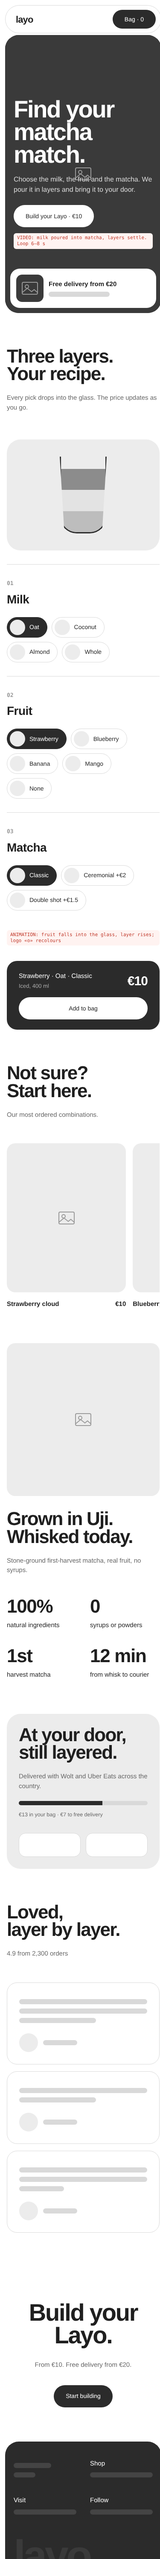
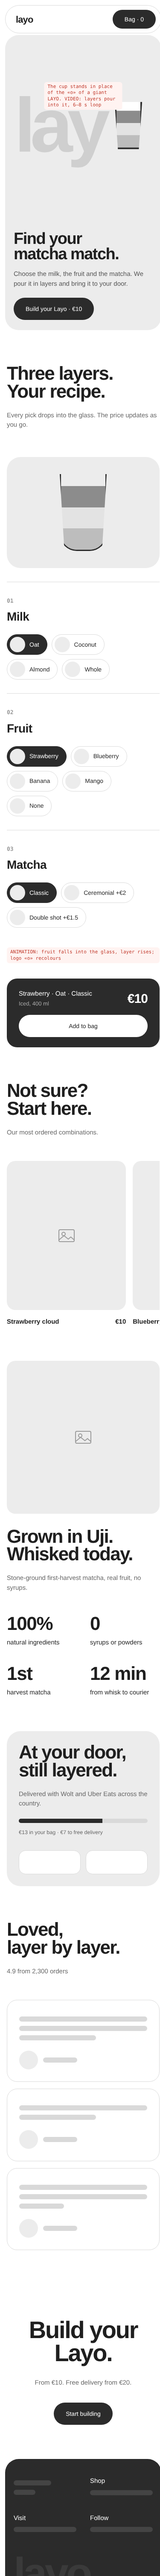
Layo wireframe: poster hero (cup as the o of giant LAYO); hero rule
Claude-Session: https://claude.ai/code/session_01UTJuAjWUwzzxbHTx65gk4g

diff --git a/projects/matcha/wireframe/index.html b/projects/matcha/wireframe/index.html
@@ -19,6 +19,14 @@ nav .lg{font-weight:800;font-size:22px;letter-spacing:-.04em}nav .mid{display:fl
 .hero .txt .h{font-size:clamp(56px,7.4vw,120px)}.hero .txt p{margin:28px 0 32px;max-width:40ch;color:#ddd;font-size:18px}
 .notch{position:absolute;right:0;bottom:0;background:var(--w);border-radius:28px 0 0 0;padding:22px 26px;width:360px}
 .notch .row{display:flex;gap:12px;align-items:center}.notch .row .img{width:64px;height:64px;border-radius:14px;position:static}
+.poster{position:relative;margin:16px 32px 0;height:calc(100vh - 100px);min-height:680px;border-radius:32px;background:var(--p);overflow:hidden}
+.giant{position:absolute;left:0;right:0;top:50%;translate:0 -66%;display:flex;justify-content:center;align-items:center;font-weight:800;letter-spacing:-.07em;font-size:31vw;line-height:.8;color:#cfcfcf}
+.slot{display:inline-grid;place-items:center;width:.62em;height:.8em;position:relative}
+.glass2{width:.36em;height:.62em;border:4px solid var(--d);border-top:0;display:flex;flex-direction:column-reverse;overflow:hidden;clip-path:polygon(0 0,100% 0,88% 100%,12% 100%);background:#fff}
+.glass2 i{height:27%}.glass2 i:nth-child(1){background:#bdbdbd}.glass2 i:nth-child(2){background:#e3e3e3}.glass2 i:nth-child(3){background:#8c8c8c}
+.pl{position:absolute;left:48px;bottom:44px;max-width:420px}.pl .h{font-size:44px}.pl p{margin:24px 0 28px;color:#555}
+.pr{position:absolute;right:48px;bottom:44px;display:grid;gap:14px;justify-items:end}.chips{display:flex;gap:8px}.chips .opt{background:#fff}
+@media (max-width:820px){.poster{margin:8px 12px 0;height:auto;min-height:0;aspect-ratio:9/17}.giant{font-size:46vw;top:34%}.pl{left:20px;right:20px;bottom:24px}.pl .h{font-size:38px}.pl p{margin:18px 0 22px}.pr{display:none}}
 /* builder */
 .build{display:grid;grid-template-columns:5fr 7fr;gap:64px;align-items:start}
 .cup{position:sticky;top:110px;height:560px;border-radius:32px;background:var(--p);display:grid;place-items:center}
@@ -51,10 +59,11 @@ section{padding:80px 0}.build,.q,.del{grid-template-columns:1fr;gap:32px}.cup{po
 </style></head><body>
 <nav><span class="lg">layo</span><span class="mid"><span>Build</span><span>Favourites</span><span>Delivery</span><span>Visit us</span></span><span class="btn" style="height:44px">Bag · 0</span></nav>
 
-<header class="hero"><div class="img"></div>
-  <div class="txt"><h1 class="h">Find your<br>matcha match.</h1><p>Choose the milk, the fruit and the matcha. We pour it in layers and bring it to your door.</p><span class="btn" style="background:#fff;color:#1f1f1f">Build your Layo · €10</span>
-  <div class="note">VIDEO: milk poured into matcha, layers settle. Loop 6–8 s</div></div>
-  <div class="notch"><div class="row"><div class="img"></div><div style="flex:1"><b>Free delivery from €20</b><div class="ln s" style="margin:6px 0 0"></div></div></div></div>
+<header class="poster">
+  <div class="giant"><span>lay</span><span class="slot"><span class="glass2"><i></i><i></i><i></i></span></span></div>
+  <div class="note" style="position:absolute;top:96px;left:50%;translate:-50% 0">The cup stands in place of the «o» of a giant LAYO. VIDEO: layers pour into it, 6–8 s loop</div>
+  <div class="pl"><h1 class="h">Find your<br>matcha match.</h1><p>Choose the milk, the fruit and the matcha. We pour it in layers and bring it to your door.</p><span class="btn">Build your Layo · €10</span></div>
+  <div class="pr"><small style="color:#888">Today’s most built</small><div class="chips"><span class="opt"><i></i>Strawberry</span><span class="opt"><i></i>Oat</span><span class="opt"><i></i>Classic</span></div><b>€10 · free delivery from €20</b></div>
 </header>
 
 <section id="build"><div class="wrap">

diff --git a/skills/premium-wow-design/references/taste.md b/skills/premium-wow-design/references/taste.md
@@ -153,3 +153,6 @@
 
 ## Названия брендов (урок Mido)
 - Прежде чем предлагать название клиенту: поиск бренда, проверка известных марок в любых категориях (Mido = часы Swatch), домены (RDAP), соцсети. Показывать только прошедшие проверку, с таблицей рисков. Товарные знаки — рекомендовать проверку юристом.
+
+## Первый экран (урок Layo)
+- Первый экран — главный носитель уникальности. Перед каркасом сверять раскладку hero с `project-log.md`: «фото на всю ширину + текст слева внизу» уже занято (Hale Pilates). Брать композицию из Figma-систем (Vistora) или HorizonX, отличную от прошлых.
